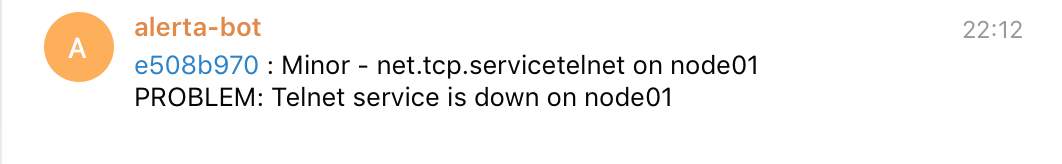
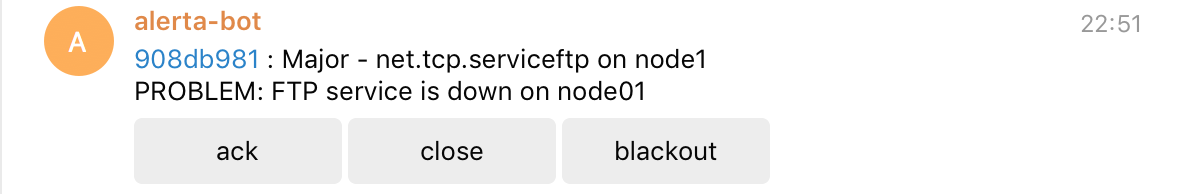
Add Telegram webhook integration to plugin

diff --git a/plugins/telegram/alerta_telegram.py b/plugins/telegram/alerta_telegram.py
@@ -10,6 +10,8 @@ LOG = app.logger
 
 TELEGRAM_TOKEN = os.environ.get('TELEGRAM_TOKEN') or app.config['TELEGRAM_TOKEN']
 TELEGRAM_CHAT_ID = os.environ.get('TELEGRAM_CHAT_ID') or app.config['TELEGRAM_CHAT_ID']
+TELEGRAM_WEBHOOK_URL = os.environ.get('TELEGRAM_WEBHOOK_URL') or app.config.get('TELEGRAM_WEBHOOK_URL', None)
+
 DASHBOARD_URL = os.environ.get('DASHBOARD_URL') or app.config.get('DASHBOARD_URL', '')
 
 
@@ -19,6 +21,10 @@ class TelegramBot(PluginBase):
 
         self.bot = telepot.Bot(TELEGRAM_TOKEN)
         LOG.debug('Telegram: %s', self.bot.getMe())
+
+        if TELEGRAM_WEBHOOK_URL:
+            self.bot.setWebhook(TELEGRAM_WEBHOOK_URL)
+            LOG.debug('Telegram: %s', self.bot.getWebhookInfo())
 
         super(TelegramBot, self).__init__(name)
 
@@ -42,8 +48,21 @@ class TelegramBot(PluginBase):
 
         LOG.debug('Telegram: message=%s', text)
 
+        if TELEGRAM_WEBHOOK_URL:
+            keyboard = {
+                'inline_keyboard': [
+                    [
+                        {'text':'ack', 'callback_data': '/ack ' + alert.id},
+                        {'text':'close', 'callback_data': '/close ' + alert.id},
+                        {'text':'blackout', 'callback_data': '/blackout %s|%s|%s' % (alert.environment, alert.resource, alert.event)}
+                    ]
+                ]
+            }
+        else:
+            keyboard = None
+
         try:
-            r = self.bot.sendMessage(TELEGRAM_CHAT_ID, text, parse_mode='Markdown')
+            r = self.bot.sendMessage(TELEGRAM_CHAT_ID, text, parse_mode='Markdown', reply_markup=keyboard)
         except Exception as e:
             raise RuntimeError("Telegram: ERROR - %s", e)
 
